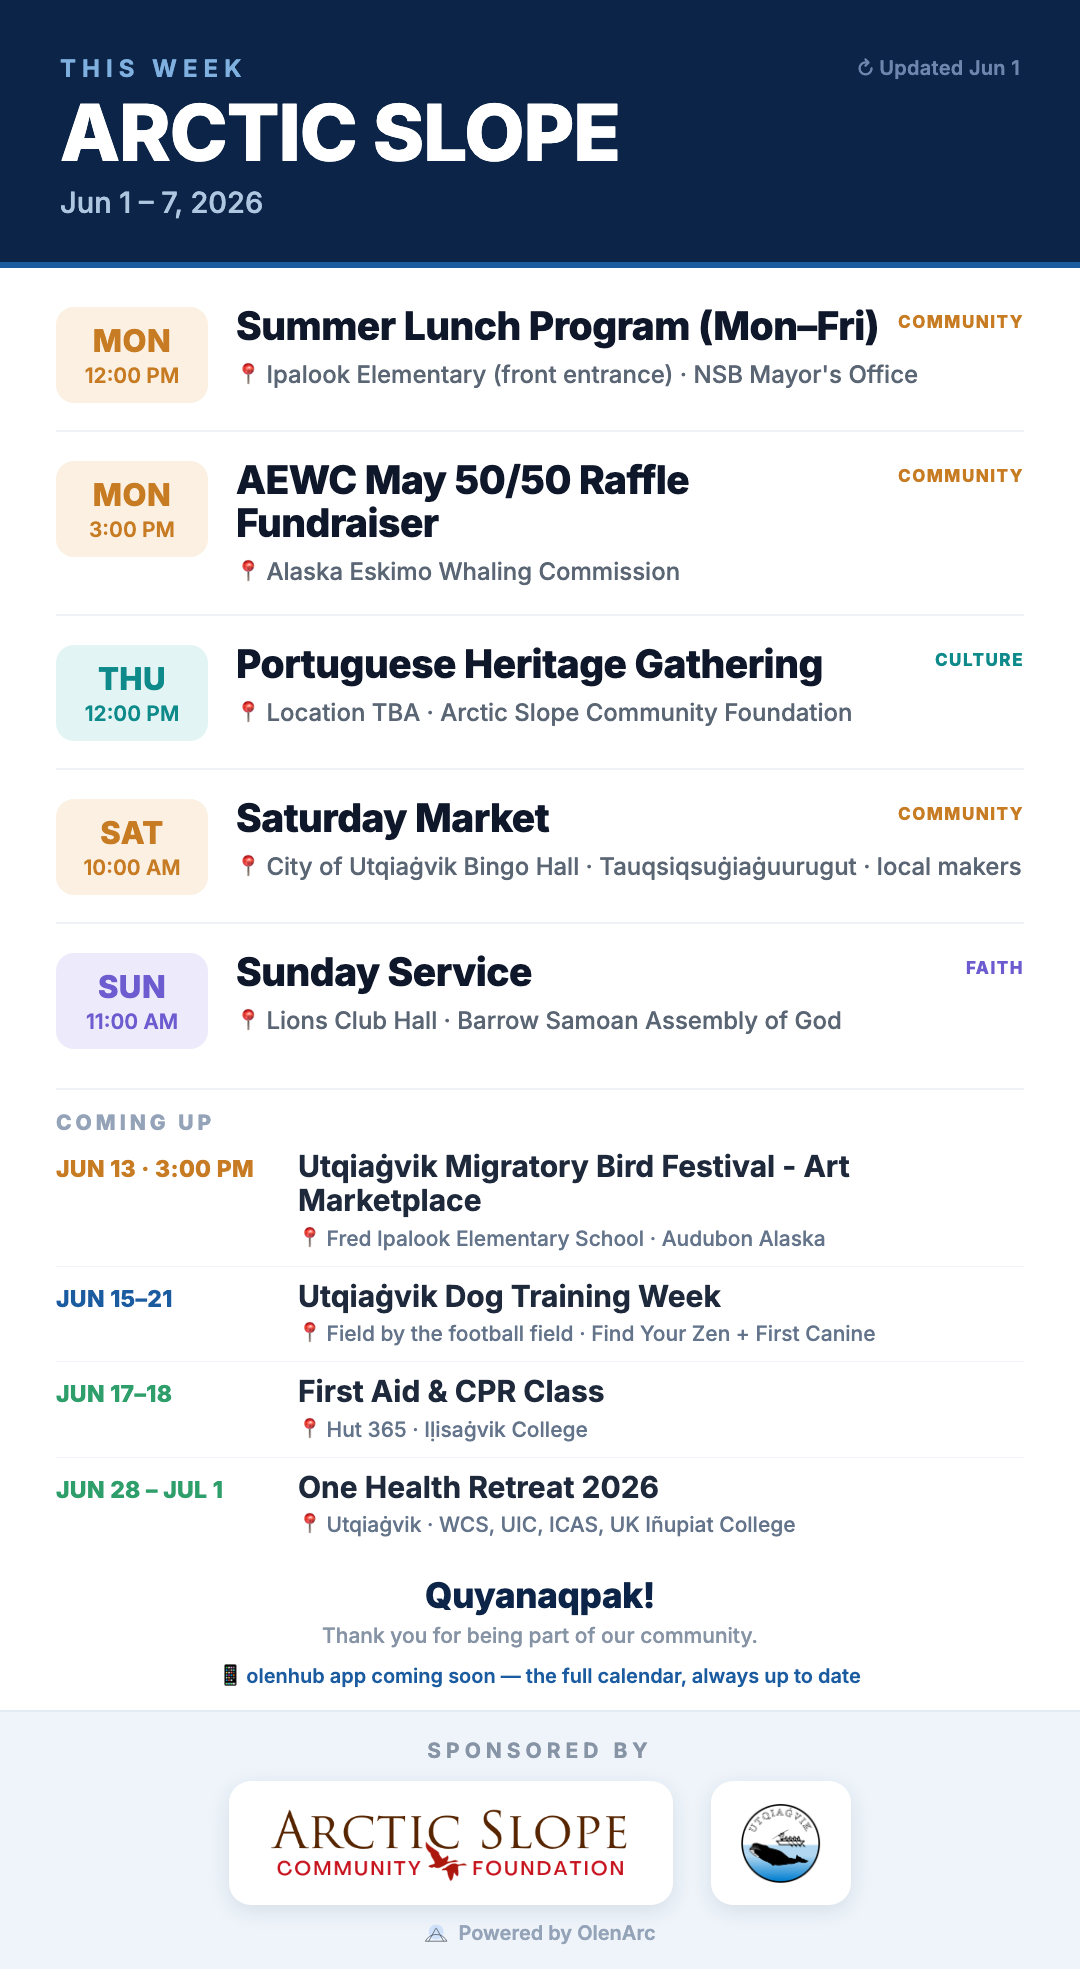
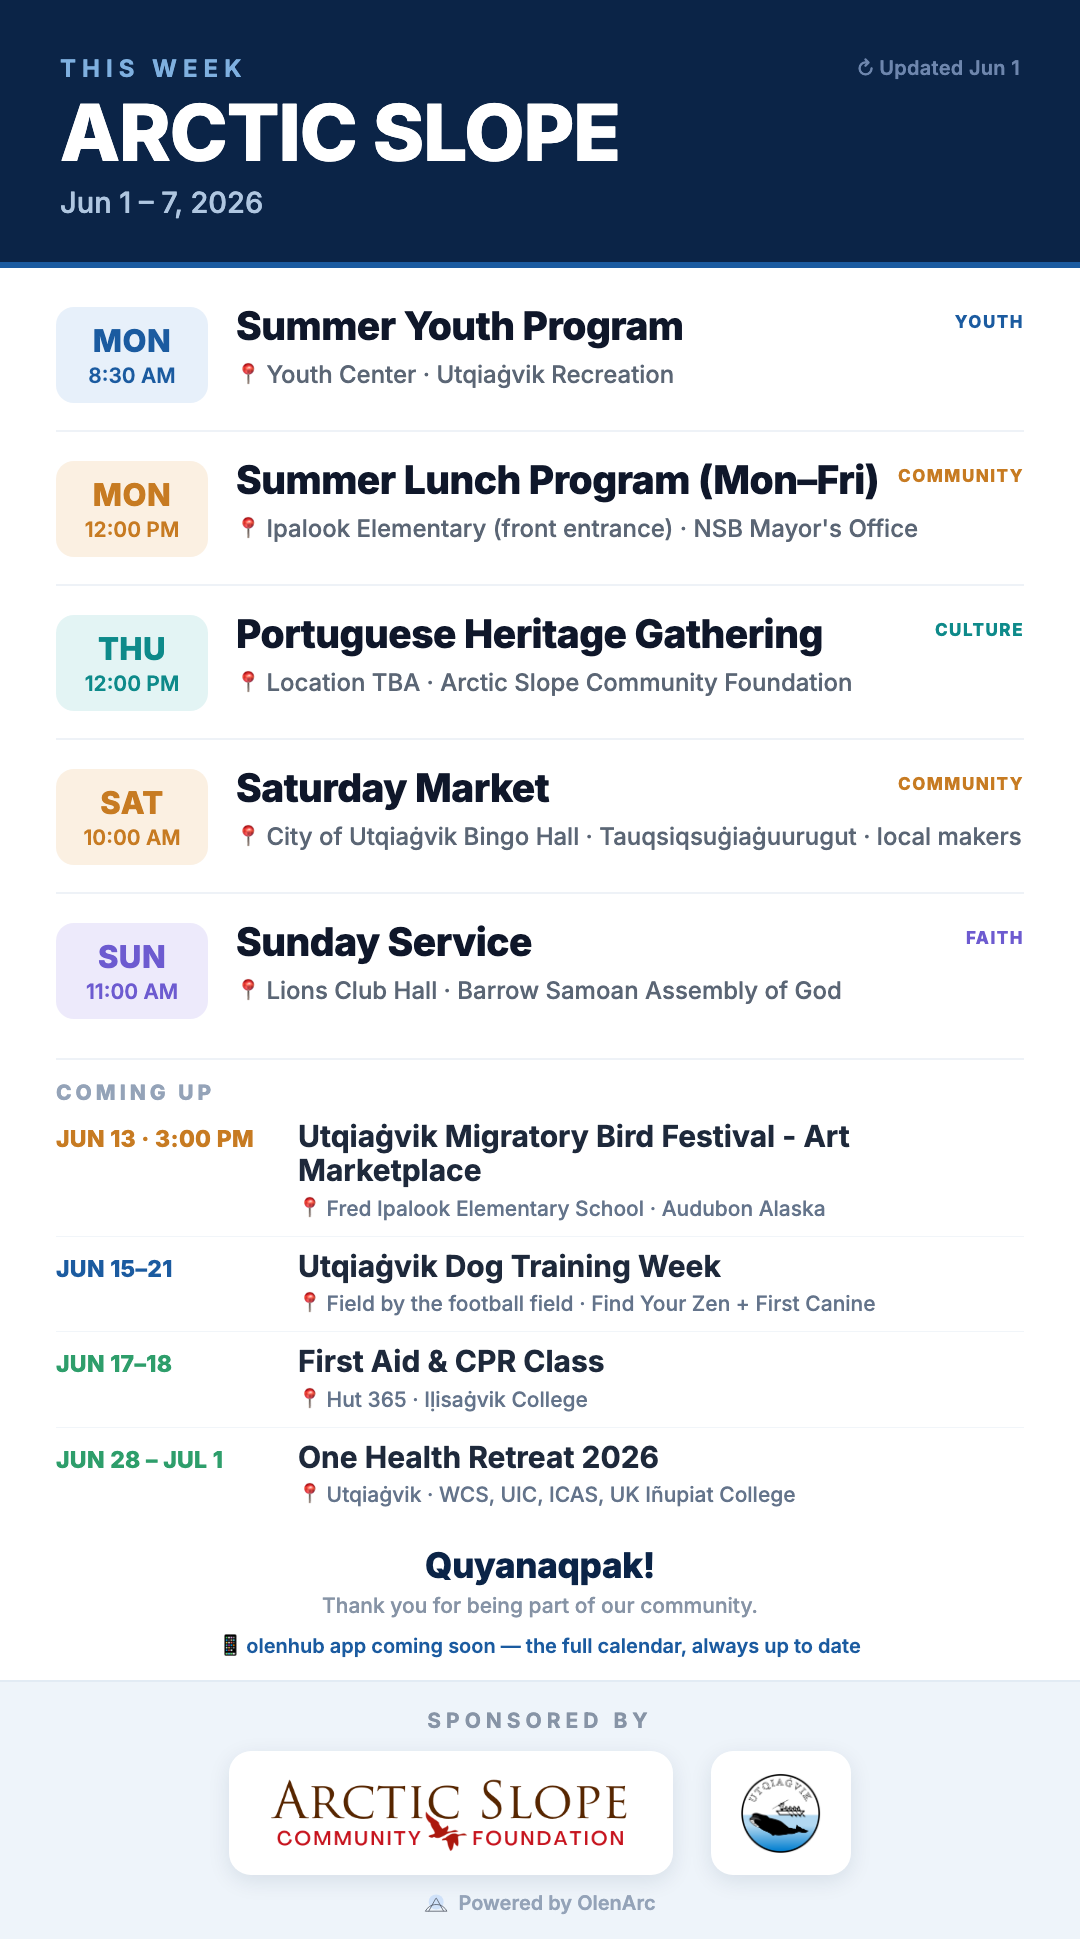
Update digest: drop expired, add Summer Youth + City hiring

diff --git a/2026-06-01/index.html b/2026-06-01/index.html
@@ -53,9 +53,9 @@
     <textarea id="cap" readonly>📅 This week across the Arctic Slope · Jun 1 – 7, 2026
 👉 Swipe through the flyers below 👇
 
-🟠 MON 3:00 PM · AEWC May 50/50 Raffle Fundraiser
-Alaska Eskimo Whaling Commission
-→ https://www.facebook.com/groups/464980443573945/permalink/35776405265338014/
+🔵 MON 8:30 AM · Summer Youth Program
+Youth Center · Utqiaġvik Recreation
+→ https://www.facebook.com/COBarrow/posts/pfbid0Ksx8bphoa1sg99GQSzQfJeSVB9q6mzp4tJCSjTeAB9J7gKUJqwh5Lfz7s4AfVZMMl
 
 🟠 MON 12:00 PM · Summer Lunch Program (Mon–Fri)
 Ipalook Elementary (front entrance) · NSB Mayor's Office
@@ -90,10 +90,10 @@ Lions Club Hall, Barrow · Barrow Samoan Assembly of God
   https://www.arcticslopecommunity.org
 • 2026 Quality of Life Survey — open through Jul 31; shapes local grant funding
   https://www.arcticslopecommunity.org
+• City of Utqiaġvik is hiring — City Clerk, HR Specialist, Cemetery Keeper, Bingo Chair, Receptionist &amp; more
+  https://www.utqiagvik.us/forms/
 • AEWC is hiring — Gaming Manager — $28/hr + benefits
   https://www.aewc-alaska.org/employment
-• Youth travel: ICC General Assembly (MYAC) — NS high-schoolers &amp; 2026 grads · apply by Jun 1
-  https://www.north-slope.org
 • Alaska Marketplace (Spruce Root) — business support applications open
   https://form.jotform.com/260625782873164
 • Online GER course — Intro to Environmental Studies — UAF Bristol Bay · fall, 100% online, GER credit · [email redacted]

diff --git a/thisweek/index.html b/thisweek/index.html
@@ -53,9 +53,9 @@
     <textarea id="cap" readonly>📅 This week across the Arctic Slope · Jun 1 – 7, 2026
 👉 Swipe through the flyers below 👇
 
-🟠 MON 3:00 PM · AEWC May 50/50 Raffle Fundraiser
-Alaska Eskimo Whaling Commission
-→ https://www.facebook.com/groups/464980443573945/permalink/35776405265338014/
+🔵 MON 8:30 AM · Summer Youth Program
+Youth Center · Utqiaġvik Recreation
+→ https://www.facebook.com/COBarrow/posts/pfbid0Ksx8bphoa1sg99GQSzQfJeSVB9q6mzp4tJCSjTeAB9J7gKUJqwh5Lfz7s4AfVZMMl
 
 🟠 MON 12:00 PM · Summer Lunch Program (Mon–Fri)
 Ipalook Elementary (front entrance) · NSB Mayor's Office
@@ -90,10 +90,10 @@ Lions Club Hall, Barrow · Barrow Samoan Assembly of God
   https://www.arcticslopecommunity.org
 • 2026 Quality of Life Survey — open through Jul 31; shapes local grant funding
   https://www.arcticslopecommunity.org
+• City of Utqiaġvik is hiring — City Clerk, HR Specialist, Cemetery Keeper, Bingo Chair, Receptionist &amp; more
+  https://www.utqiagvik.us/forms/
 • AEWC is hiring — Gaming Manager — $28/hr + benefits
   https://www.aewc-alaska.org/employment
-• Youth travel: ICC General Assembly (MYAC) — NS high-schoolers &amp; 2026 grads · apply by Jun 1
-  https://www.north-slope.org
 • Alaska Marketplace (Spruce Root) — business support applications open
   https://form.jotform.com/260625782873164
 • Online GER course — Intro to Environmental Studies — UAF Bristol Bay · fall, 100% online, GER credit · [email redacted]